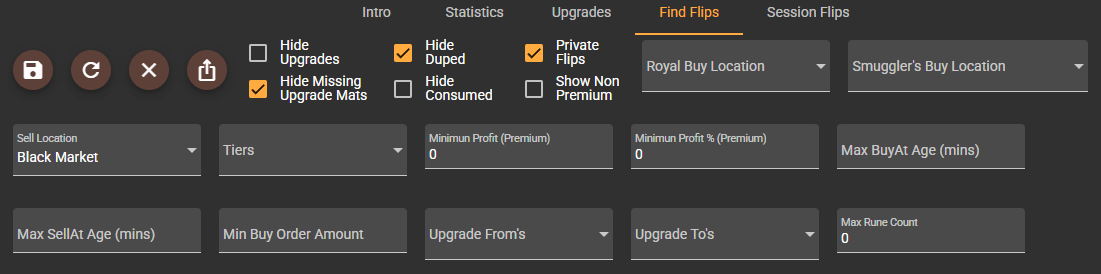
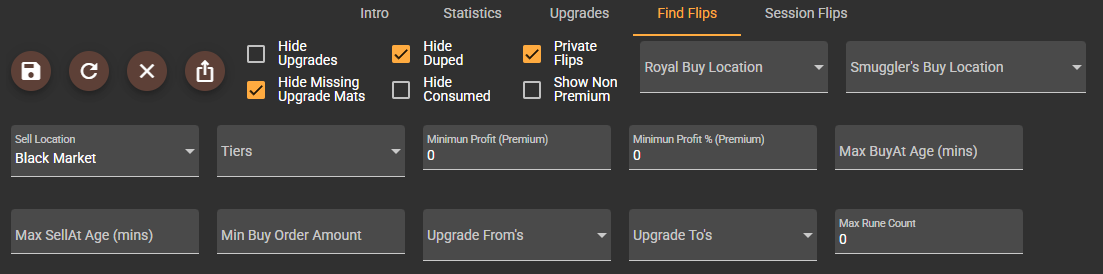
chore: update repository assets

diff --git a/tutorials/flipper/flippertutorial.md b/tutorials/flipper/flippertutorial.md
@@ -89,7 +89,7 @@ tags: ["Flipper", "Black Market", "Economy"]
   - Hide Duped: if you select this, no flips where the buy or the sell order is used more than once will be shown. By default, the system shows the highest profit one.
   - Hide Missing Upgrade Mats: if you select this, the system will not show flips where the needed amount of upgrade mats is higher than the Available Amount you set. If you leave the Available Amount field empty, that item will not be checked for missing materials.
 
-<img width="1103" height="274" alt="Albion Online Flipper Filters" src="https://github.com/user-attachments/assets/e377ac56-e515-4bab-aa0c-33f7b5db9ba5" />
+<img src="https://cdn.albionfreemarket.com/AlbionFreeMarketTutorials/tutorials/flipper/image6.png" alt="Albion Online Flipper Filters" width="1103" height="274">
 
 ## UPGRADE FLIPS
 
@@ -164,7 +164,7 @@ tags: ["Flipper", "Black Market", "Economy"]
 
 2. To access your private flips, click the "Private Flips" button in the website Flipper interface.
 
-<img src="https://cdn.albionfreemarket.com/AlbionFreeMarketTutorials/tutorials/flipper/image9.png" alt="Private Flips Checkbox" width="1720" height="482">
+<img src="https://cdn.albionfreemarket.com/AlbionFreeMarketTutorials/tutorials/flipper/image8.png" alt="Private Flips Checkbox" width="1720" height="482">
 
 
 ### Benefits of Private Flips
@@ -208,7 +208,7 @@ Private flips represent a significant enhancement to the Albion Free Market flip
   - Set up a sell order in the Black Market and wait for it to sell.
   - Keep all failed flips in a bank tab and periodically scan the Black Market. Check the "Your Flips" page while filtering to show only failed flips. This will allow you to see if there are any buy orders that will be profitable to sell to.
 
-<img src="https://cdn.albionfreemarket.com/AlbionFreeMarketTutorials/tutorials/flipper/image9.png" alt="Albion Online Failed Flips" width="1720" height="482">
+<img src="https://cdn.albionfreemarket.com/AlbionFreeMarketTutorials/tutorials/flipper/image8.png" alt="Albion Online Failed Flips" width="1720" height="482">
 
 ## Flipper Impact Report (as of February 2025)
 
